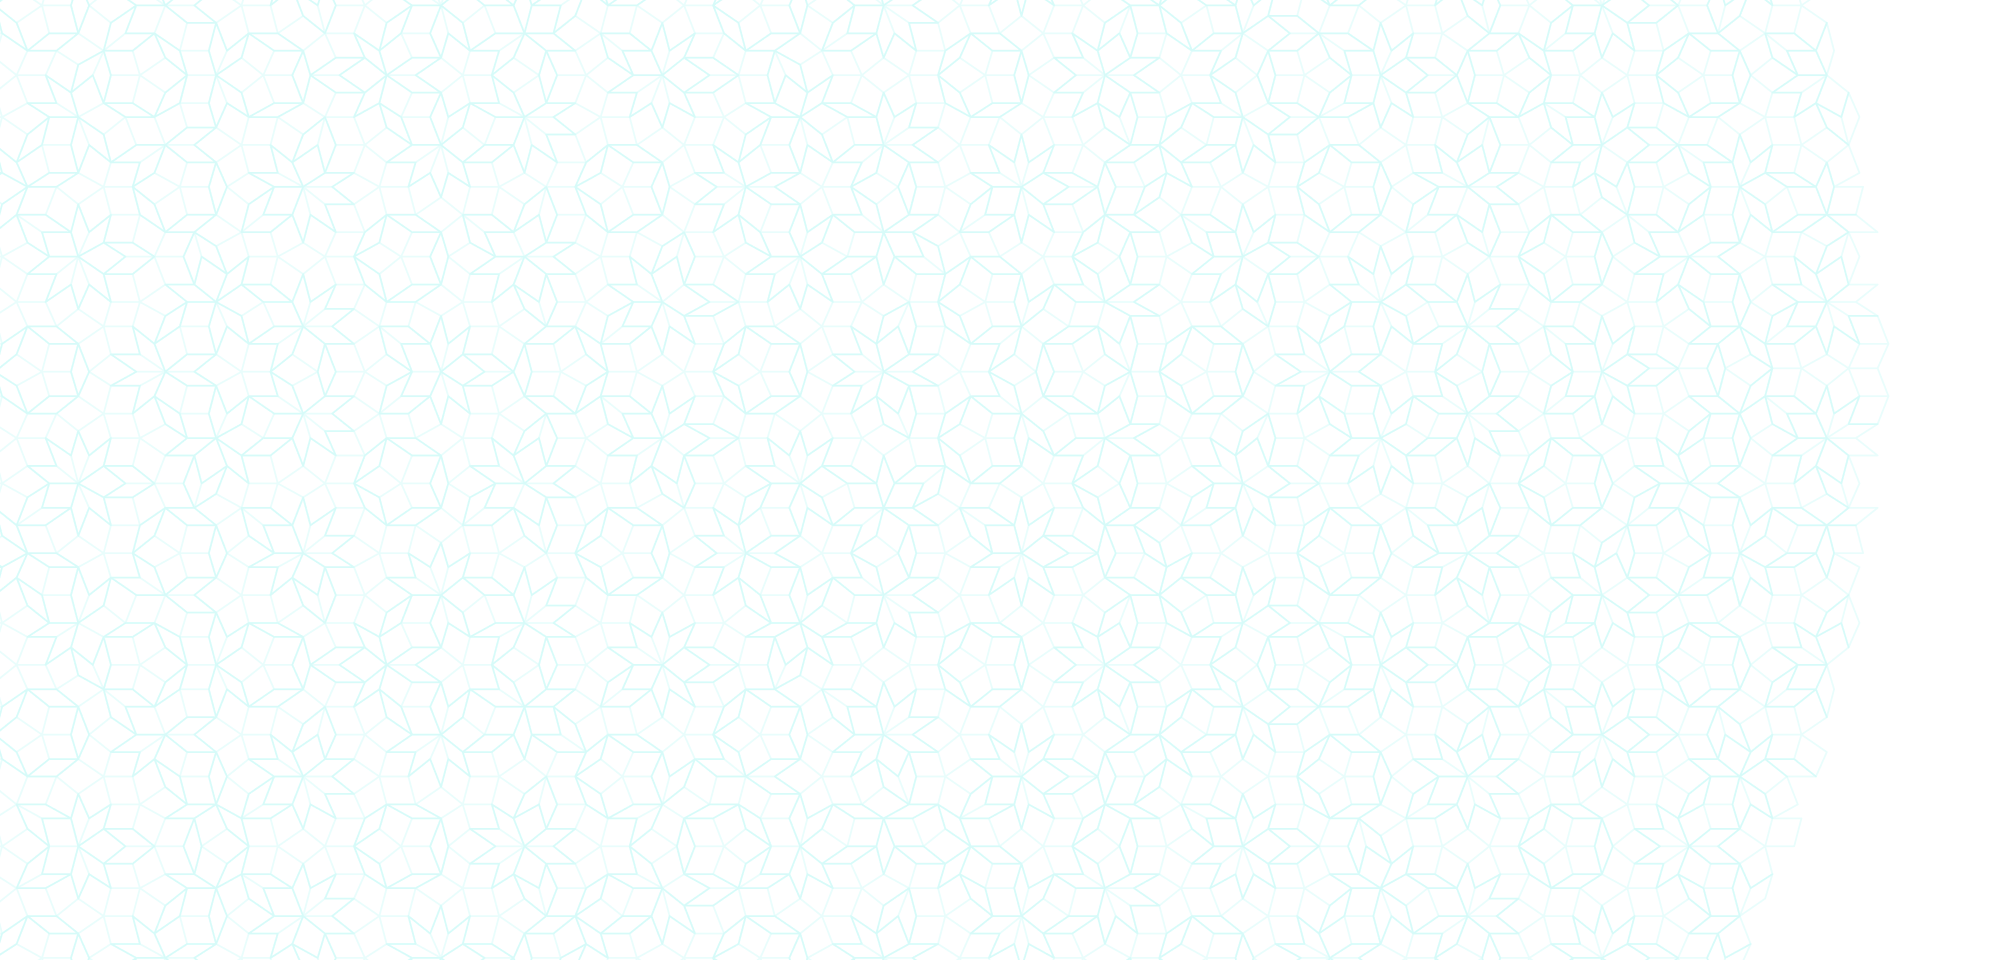
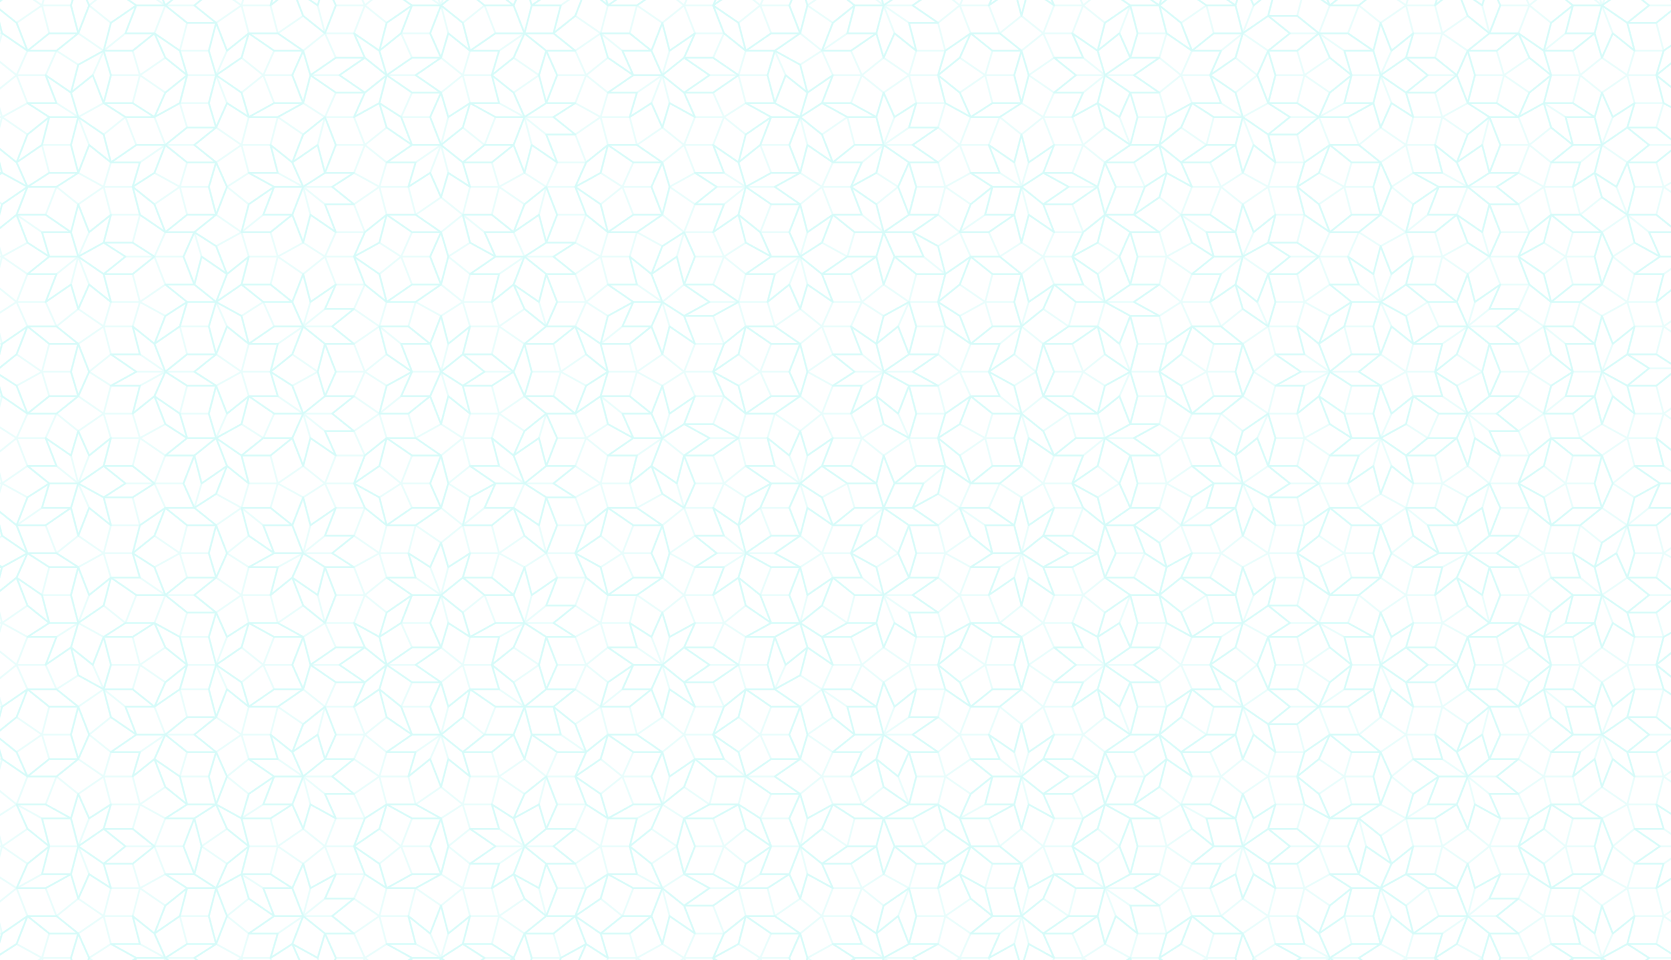
changed the way that the background is redered

diff --git a/src/pages/pageHome.jsx b/src/pages/pageHome.jsx
@@ -2,19 +2,7 @@ import { NavigationBar } from "../components/navigationBar.jsx";
 
 export function Home() {
   return (
-    <div className="
-      relative 
-      h-screen
-      w-screen
-      bg-azulFima
-      ">
-      <div className="
-        absolute
-        inset-0 
-        bg-[url('./images/penroseTiling.png')]
-        bg-center
-        ">
-      </div>
+    <>
       <div className="
         absolute 
         inset-0 
@@ -54,6 +42,6 @@ export function Home() {
           </div>
         </div>
       </div>
-    </div>
+    </>
   )
 }

diff --git a/src/index.css b/src/index.css
@@ -1,7 +1,15 @@
 @import "tailwindcss";
 
-@theme {  
+@theme {
   --color-azulFima: oklch(0.4063 0.0761 236.45);
   --color-brancoFima: oklch(0.98 0.005 203.47);
   --color-pretoFima: oklch(0.115 0.015 203.47);
-  }
+}
+
+
+:root {
+  background-color: var(--color-azulFima);
+  background-image: url("./images/penroseTiling.png");
+  background-attachment: fixed;
+  background-size: cover;
+}
